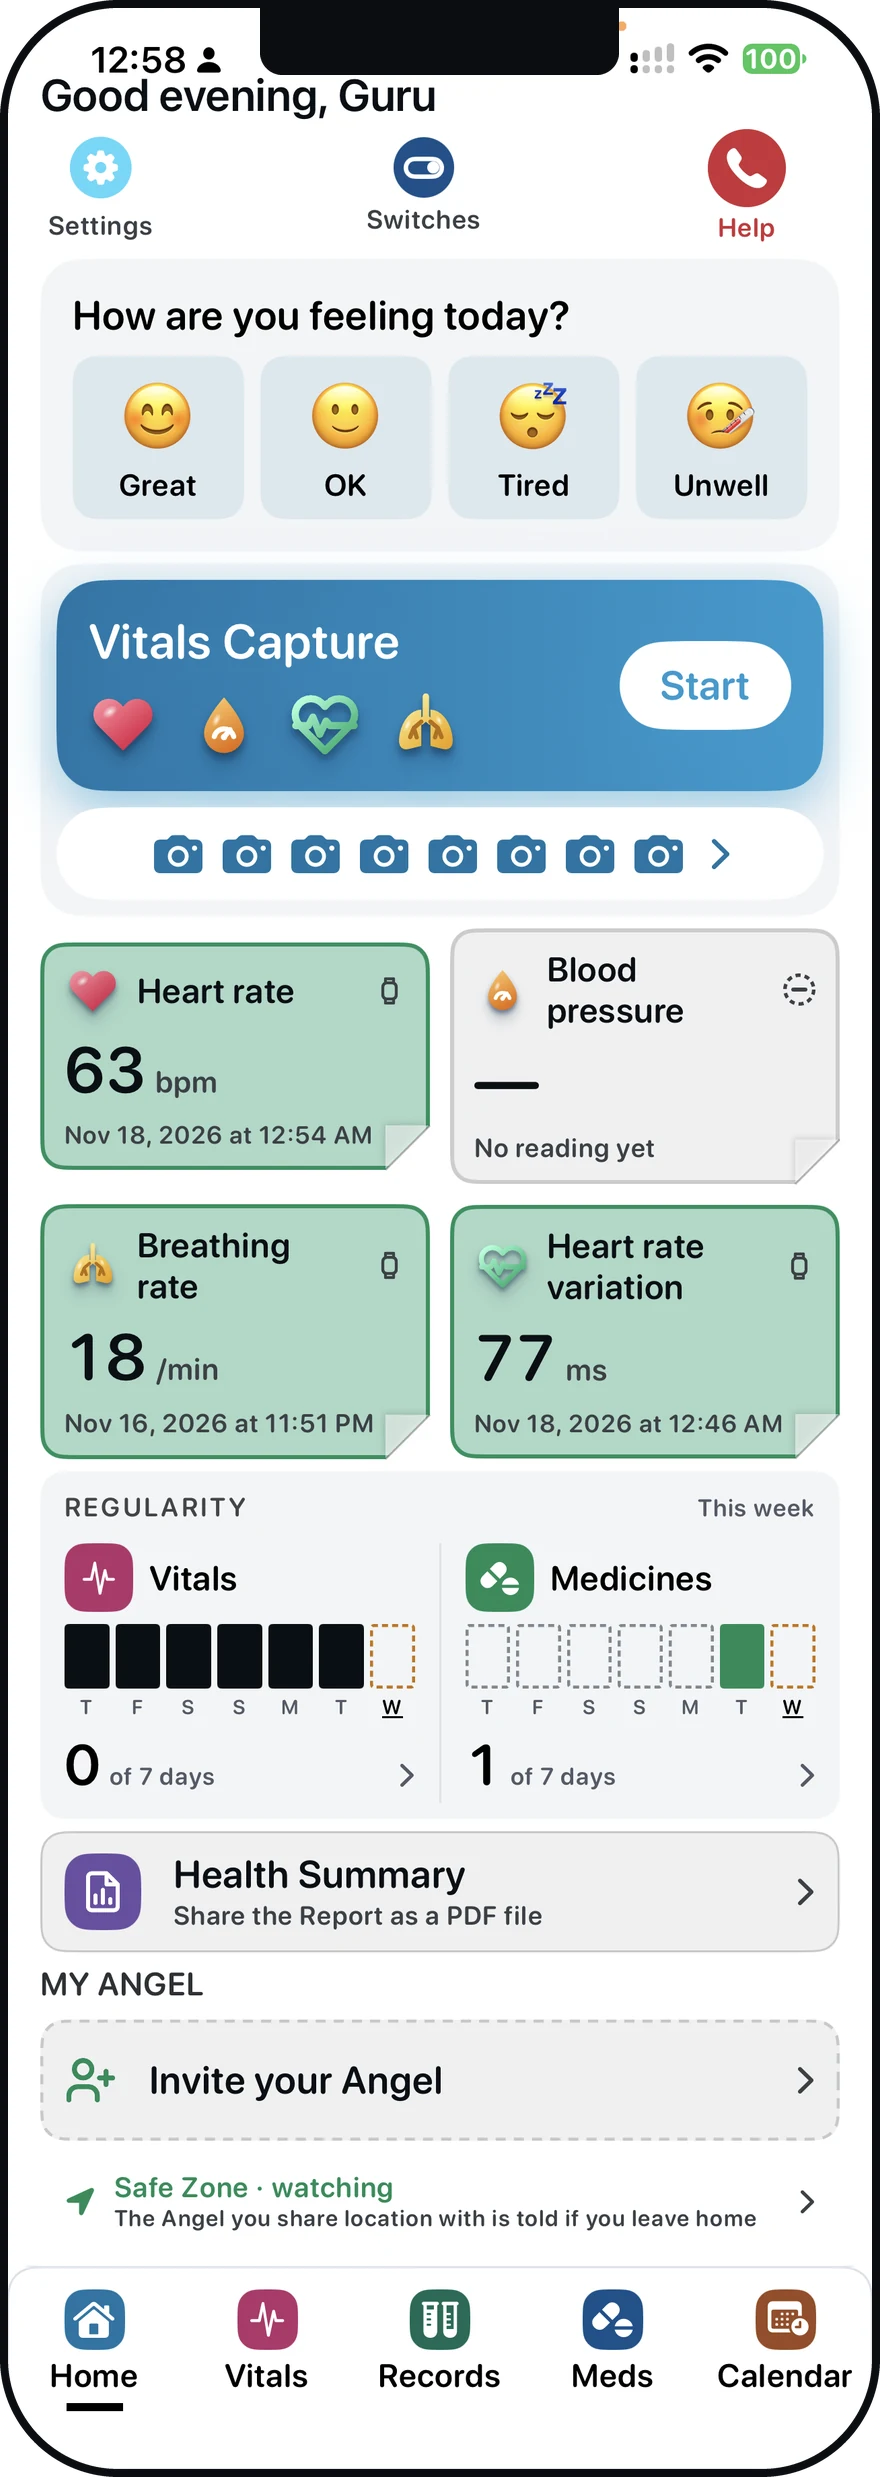
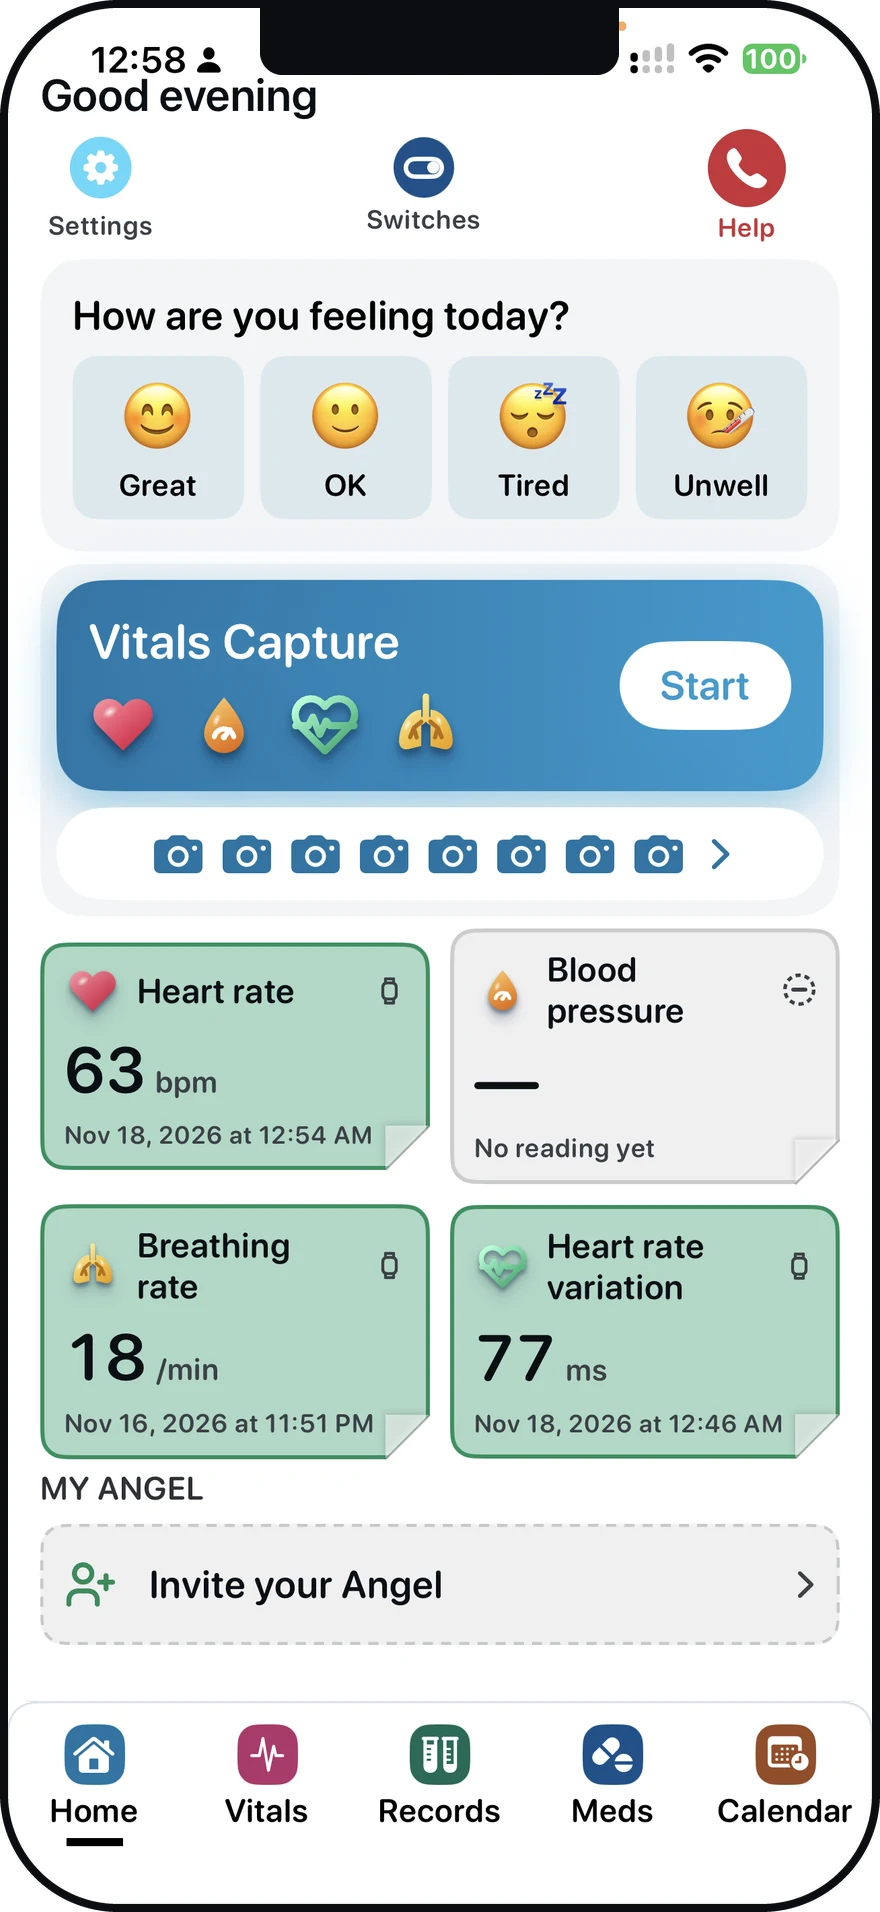
Home: her phone without the Star's name, at the same size as her family's phone (Regularity and Health Summary left out to fit; My Angel kept)

diff --git a/index.html b/index.html
@@ -50,7 +50,7 @@
 
           <figure class="shots">
             <div class="shot shot-her">
-              <img src="assets/home/app-her-phone.webp" width="440" height="1239" alt="Aurora Care on her own phone, a screen from the app: Good evening, Settings, Switches and a red Help button; how are you feeling today with Great, OK, Tired and Unwell; Vitals Capture with a Start button; heart rate 63 bpm, blood pressure with no reading yet, breathing rate 18 per minute and heart rate variation 77 ms; this week&#39;s regularity for vitals and medicines; a Health Summary to share as a PDF; My Angel with Invite your Angel; and Safe Zone watching.">
+              <img src="assets/home/app-her-phone.webp" width="440" height="956" alt="Aurora Care on her own phone, a screen from the app: Good evening, Settings, Switches and a red Help button; how are you feeling today with Great, OK, Tired and Unwell; Vitals Capture with a Start button; heart rate 63 bpm, blood pressure with no reading yet, breathing rate 18 per minute and heart rate variation 77 ms; and My Angel with Invite your Angel.">
               <span class="shot-label">Her phone</span>
             </div>
             <div class="shot shot-family">
